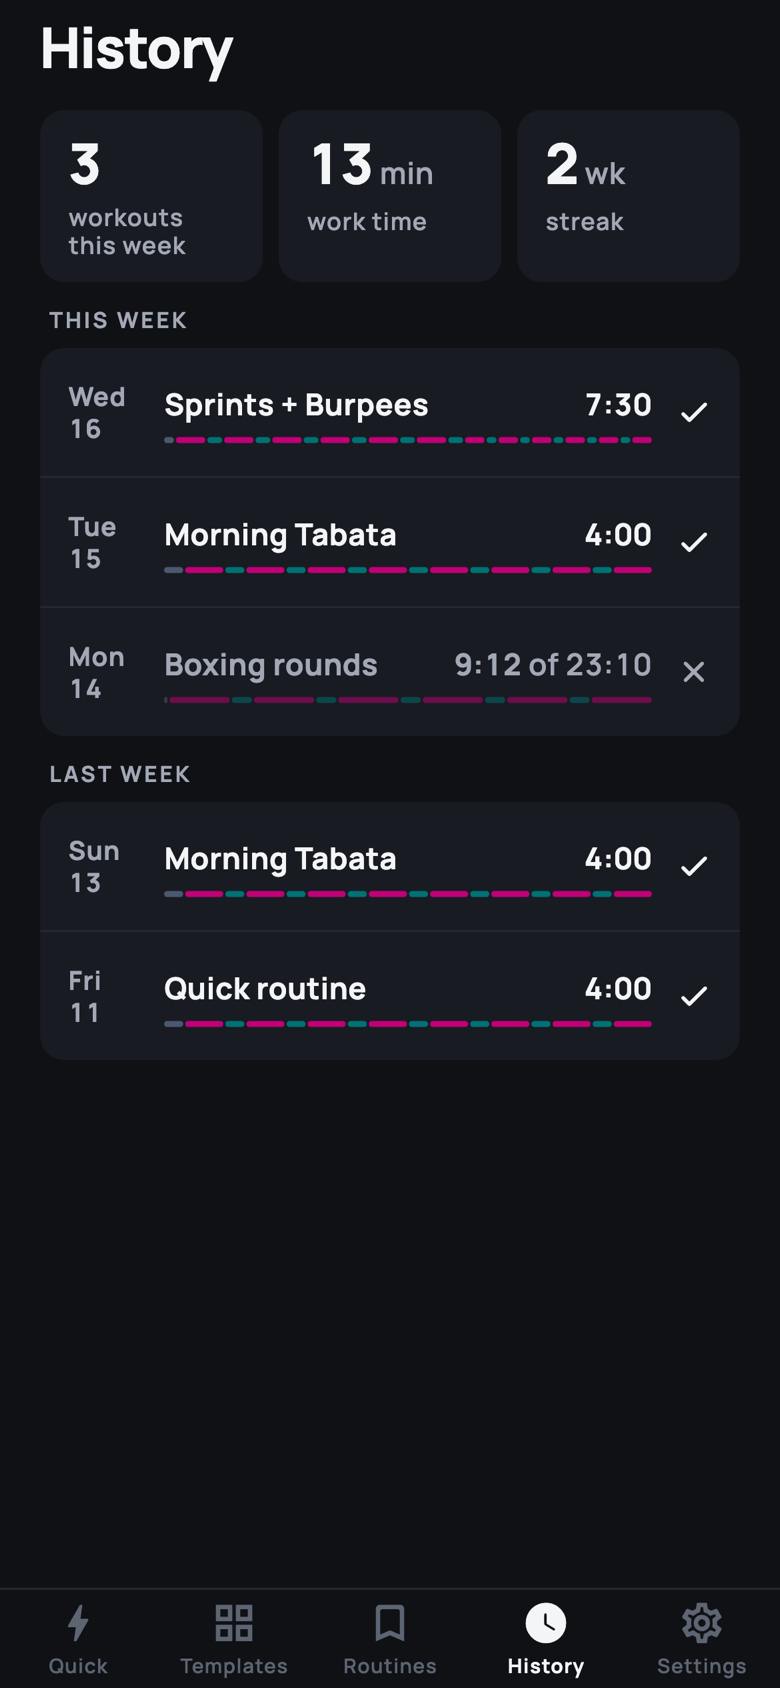
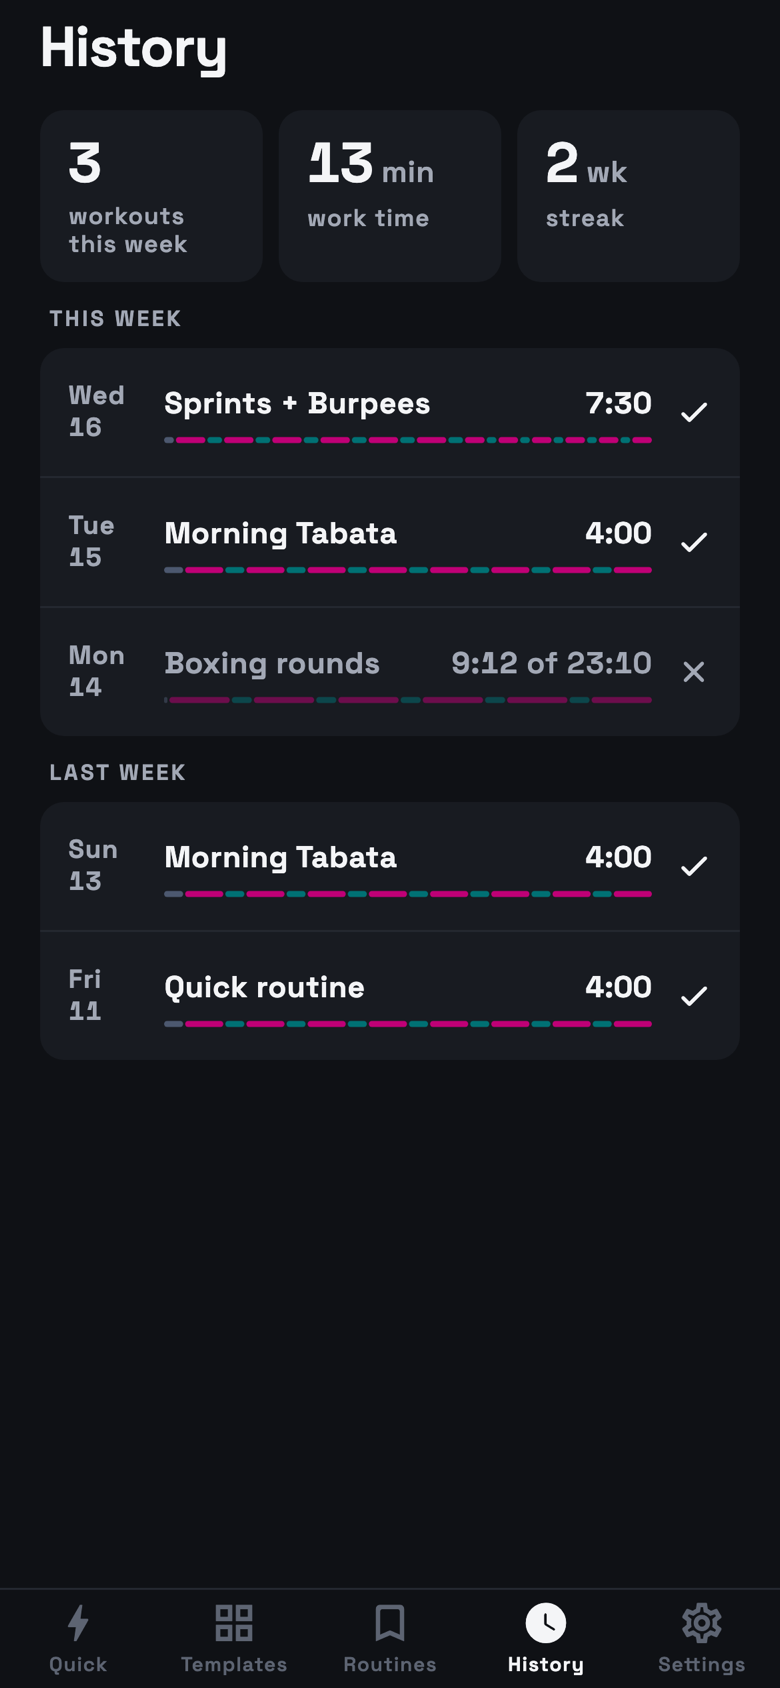
site: set headings in Space Grotesk and refresh the screens
The app moved to Space Grotesk, so the headings, labels and buttons of
the site follow it, and the four app screens are re-rendered in the new
face. Running text stays in Source Serif 4.

diff --git a/assets/site.css b/assets/site.css
@@ -45,8 +45,8 @@ body {
   overflow-x: clip;
 }
 
-/* Two voices. Headings, labels and buttons speak in Manrope, the face of
-   the app. Running text speaks in a serif made for reading on screens, so
+/* Two voices. Headings, labels and buttons speak in Space Grotesk, the
+   face of the app. Running text speaks in a serif made for reading on screens, so
    a heading and the paragraph under it never look like the same thing. */
 body {
   margin: 0;
@@ -59,7 +59,7 @@ body {
 }
 
 h1, h2, h3, .wordmark, .eyebrow, .pill, .meta, footer, th {
-  font-family: "Manrope", -apple-system, BlinkMacSystemFont, "Segoe UI", sans-serif;
+  font-family: "Space Grotesk", -apple-system, BlinkMacSystemFont, "Segoe UI", sans-serif;
 }
 
 main {
@@ -379,7 +379,7 @@ section {
 }
 
 .phone figcaption {
-  font-family: "Manrope", -apple-system, BlinkMacSystemFont, "Segoe UI", sans-serif;
+  font-family: "Space Grotesk", -apple-system, BlinkMacSystemFont, "Segoe UI", sans-serif;
   font-size: 14px;
   font-weight: 700;
   color: var(--text2);
@@ -457,7 +457,7 @@ section {
   border-radius: 999px;
   background: var(--tint);
   color: #FAFAFA;
-  font-family: "Manrope", -apple-system, BlinkMacSystemFont, "Segoe UI", sans-serif;
+  font-family: "Space Grotesk", -apple-system, BlinkMacSystemFont, "Segoe UI", sans-serif;
   font-size: 15px;
   font-weight: 700;
   margin: 0;

diff --git a/404.html b/404.html
@@ -8,7 +8,7 @@
   <meta name="theme-color" media="(prefers-color-scheme: dark)" content="#0F1115">
   <link rel="icon" href="/assets/icons/favicon.ico" sizes="any">
   <link rel="apple-touch-icon" href="/assets/icons/apple-touch-icon.png">
-  <link href="https://fonts.googleapis.com/css2?family=Manrope:wght@600;700;800&family=Source+Serif+4:ital,opsz,wght@0,8..60,400;0,8..60,600;1,8..60,400&display=swap" rel="stylesheet">
+  <link href="https://fonts.googleapis.com/css2?family=Space+Grotesk:wght@500;600;700&family=Source+Serif+4:ital,opsz,wght@0,8..60,400;0,8..60,600;1,8..60,400&display=swap" rel="stylesheet">
   <link rel="stylesheet" href="/assets/site.css">
 </head>
 <body>

diff --git a/privacy/index.html b/privacy/index.html
@@ -20,7 +20,7 @@
   <meta name="twitter:image" content="https://getallez.app/assets/og-image.png">
   <link rel="preconnect" href="https://fonts.googleapis.com">
   <link rel="preconnect" href="https://fonts.gstatic.com" crossorigin>
-  <link href="https://fonts.googleapis.com/css2?family=Manrope:wght@600;700;800&family=Source+Serif+4:ital,opsz,wght@0,8..60,400;0,8..60,600;1,8..60,400&display=swap" rel="stylesheet">
+  <link href="https://fonts.googleapis.com/css2?family=Space+Grotesk:wght@500;600;700&family=Source+Serif+4:ital,opsz,wght@0,8..60,400;0,8..60,600;1,8..60,400&display=swap" rel="stylesheet">
   <link rel="stylesheet" href="../assets/site.css">
 </head>
 <body>

diff --git a/support/index.html b/support/index.html
@@ -20,7 +20,7 @@
   <meta name="twitter:image" content="https://getallez.app/assets/og-image.png">
   <link rel="preconnect" href="https://fonts.googleapis.com">
   <link rel="preconnect" href="https://fonts.gstatic.com" crossorigin>
-  <link href="https://fonts.googleapis.com/css2?family=Manrope:wght@600;700;800&family=Source+Serif+4:ital,opsz,wght@0,8..60,400;0,8..60,600;1,8..60,400&display=swap" rel="stylesheet">
+  <link href="https://fonts.googleapis.com/css2?family=Space+Grotesk:wght@500;600;700&family=Source+Serif+4:ital,opsz,wght@0,8..60,400;0,8..60,600;1,8..60,400&display=swap" rel="stylesheet">
   <link rel="stylesheet" href="../assets/site.css">
 </head>
 <body>

diff --git a/index.html b/index.html
@@ -28,7 +28,7 @@
        app record exists: <meta name="apple-itunes-app" content="app-id=ID"> -->
   <link rel="preconnect" href="https://fonts.googleapis.com">
   <link rel="preconnect" href="https://fonts.gstatic.com" crossorigin>
-  <link href="https://fonts.googleapis.com/css2?family=Manrope:wght@600;700;800&family=Source+Serif+4:ital,opsz,wght@0,8..60,400;0,8..60,600;1,8..60,400&display=swap" rel="stylesheet">
+  <link href="https://fonts.googleapis.com/css2?family=Space+Grotesk:wght@500;600;700&family=Source+Serif+4:ital,opsz,wght@0,8..60,400;0,8..60,600;1,8..60,400&display=swap" rel="stylesheet">
   <link rel="stylesheet" href="assets/site.css">
 </head>
 <body>
